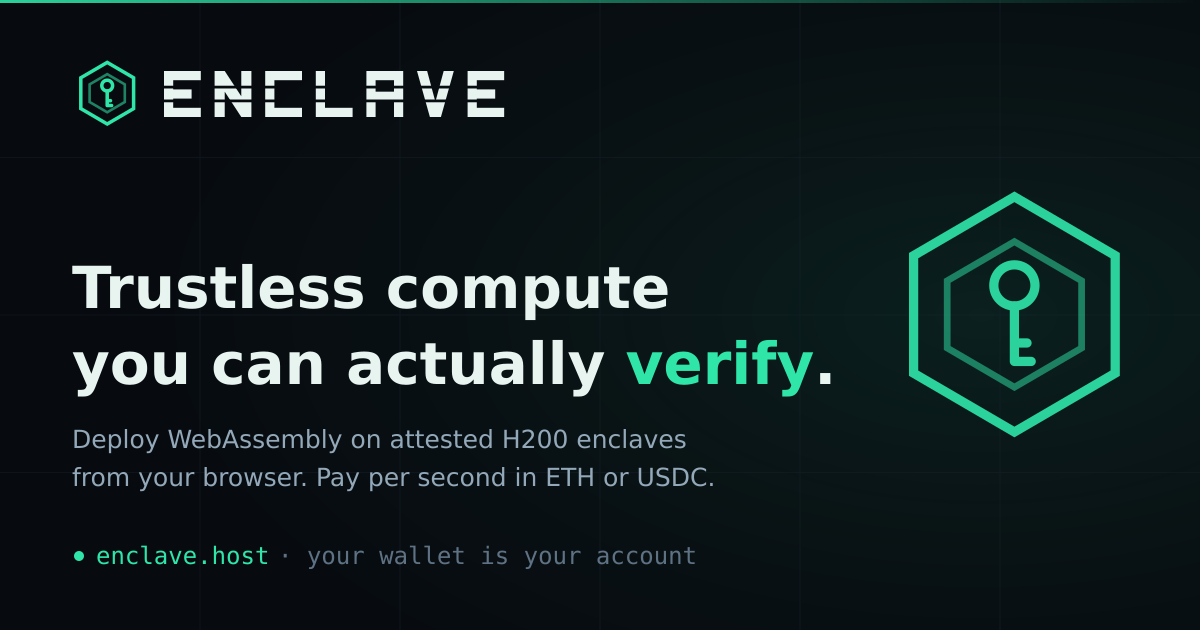
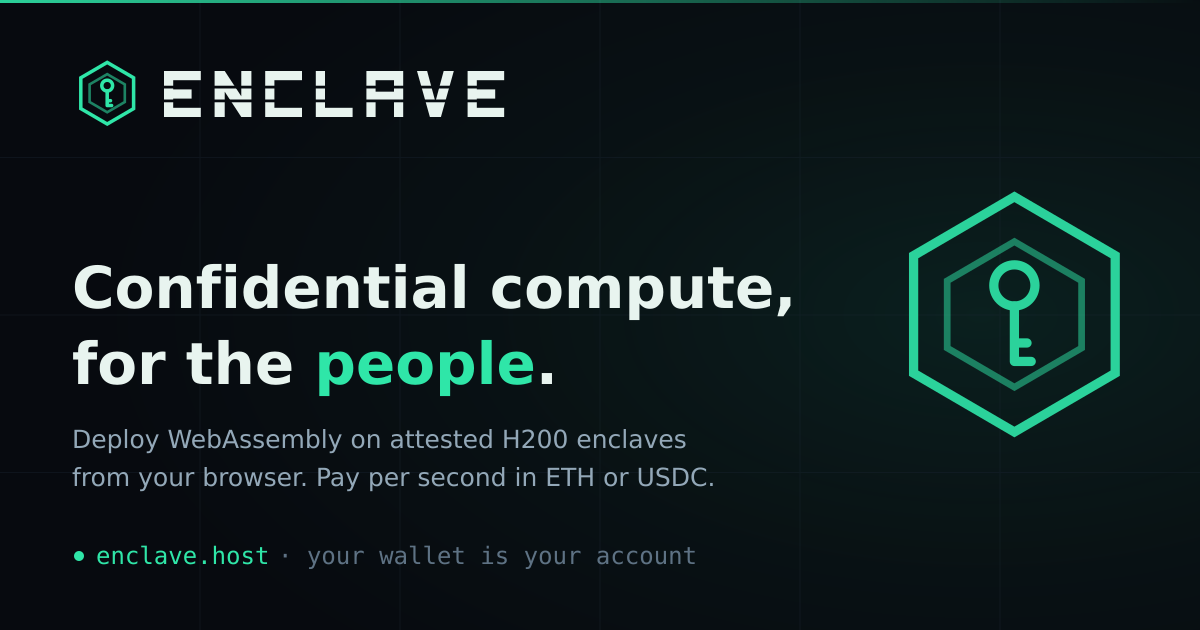
site: rebrand around "Confidential compute, for the people"
Make the tagline the brand line everywhere it shows: index hero h1
(verify hook moves to the eyebrow + lede), page title, meta/OG copy,
JSON-LD Organization slogan + WebSite description, footer brand line
(site-wide), a new ticker fact, the regenerated og.png social card,
and the README lede. No em dashes, per the site copy rule.

Changed region(s): [[0.0617, 0.5429, 0.7092, 0.6333], [0.0617, 0.4222, 0.6783, 0.5127]]

diff --git a/site/index.html b/site/index.html
@@ -5,20 +5,20 @@
 <meta name="viewport" content="width=device-width, initial-scale=1.0" />
 <meta name="color-scheme" content="dark" />
 <meta name="theme-color" content="#070A0F" />
-<title>Enclave · Trustless Confidential GPU Compute (H200)</title>
-<meta name="description" content="Trustless on-demand confidential GPU compute. Deploy a WebAssembly app onto a confidential enclave equipped with an H200 GPU, straight from your browser: pay in ETH or USDC, and verify the enclave yourself. CORS-friendly API. Built and operated by Enclave Host, Inc." />
+<title>Enclave · Confidential GPU Compute for the People (H200)</title>
+<meta name="description" content="Confidential compute, for the people. Deploy a WebAssembly app onto a trustless, attested enclave equipped with an H200 GPU, straight from your browser: pay in ETH or USDC, and verify the enclave yourself. No sales calls, no gatekeepers. Built and operated by Enclave Host, Inc." />
 <link rel="canonical" href="https://enclave.host/" />
 <meta name="robots" content="index,follow,max-image-preview:large" />
 <meta property="og:site_name" content="Enclave" />
 <meta property="og:locale" content="en_US" />
 <meta property="og:type" content="website" />
 <meta property="og:url" content="https://enclave.host/" />
-<meta property="og:title" content="Enclave · Trustless Confidential GPU Compute" />
-<meta property="og:description" content="Deploy a WebAssembly app onto an attested confidential enclave with an H200 GPU, straight from your browser. Pay per second in ETH or USDC. Verify the enclave yourself before sending a byte." />
+<meta property="og:title" content="Enclave · Confidential Compute, for the People" />
+<meta property="og:description" content="Attested H200 enclaves for everyone, not just the Fortune 500. Deploy a WebAssembly app straight from your browser, pay per second in ETH or USDC, and verify the enclave yourself before sending a byte." />
 <meta property="og:image" content="https://enclave.host/assets/og.png" />
 <meta property="og:image:width" content="1200" />
 <meta property="og:image:height" content="630" />
-<meta property="og:image:alt" content="Enclave: trustless confidential GPU compute on attested H200 enclaves" />
+<meta property="og:image:alt" content="Enclave: confidential compute for the people, on attested H200 enclaves" />
 <meta name="twitter:card" content="summary_large_image" />
 <meta name="twitter:image" content="https://enclave.host/assets/og.png" />
 <link rel="icon" href="favicon.ico" sizes="48x48 32x32 16x16" />
@@ -62,6 +62,7 @@
       "@id": "https://enclave.host/#org",
       "name": "Enclave Host, Inc.",
       "alternateName": "Enclave",
+      "slogan": "Confidential compute, for the people.",
       "url": "https://enclave.host/",
       "logo": { "@type": "ImageObject", "url": "https://enclave.host/assets/logo-1024.png", "width": 1024, "height": 1024 },
       "email": "[email redacted]",
@@ -79,7 +80,7 @@
       "@id": "https://enclave.host/#website",
       "url": "https://enclave.host/",
       "name": "Enclave",
-      "description": "Trustless on-demand confidential GPU compute: deploy WebAssembly apps onto attested enclaves with H200 GPUs, paid per second in ETH or USDC.",
+      "description": "Confidential compute, for the people: deploy WebAssembly apps onto trustless, attested enclaves with H200 GPUs, paid per second in ETH or USDC.",
       "publisher": { "@id": "https://enclave.host/#org" }
     },
     {
@@ -116,9 +117,9 @@
 <section class="hero" data-view="overview" aria-label="Intro">
   <div class="wrap hero-grid">
     <div class="hero-copy">
-      <span class="eyebrow">Confidential compute · API v1</span>
-      <h1>Trustless compute<br>you can&nbsp;actually <span class="hl">verify</span>.</h1>
-      <p class="lede">Deploy a <b>WebAssembly app</b> onto a confidential enclave equipped with an <b>H200 GPU</b> straight from your browser. Pay per second in <b>ETH or USDC</b>. Your wallet is your account. Then check the cryptographic attestation <b>yourself</b> before you send a single byte of data.</p>
+      <span class="eyebrow">Trustless, attested enclaves · API v1</span>
+      <h1>Confidential compute,<br>for the&nbsp;<span class="hl">people</span>.</h1>
+      <p class="lede">The hardware that used to hide behind enterprise sales calls is now one click away: deploy a <b>WebAssembly app</b> onto a confidential enclave equipped with an <b>H200 GPU</b>, straight from your browser. Pay per second in <b>ETH or USDC</b>. Your wallet is your account. Then check the cryptographic attestation <b>yourself</b> before you send a single byte of data.</p>
       <div class="hero-cta">
         <a href="apps" class="btn btn-primary">Deploy an app <span class="arr">→</span></a>
         <a href="develop#api" class="btn btn-ghost">Read the API</a>

diff --git a/site/apps.html b/site/apps.html
@@ -18,7 +18,7 @@
 <meta property="og:image" content="https://enclave.host/assets/og.png" />
 <meta property="og:image:width" content="1200" />
 <meta property="og:image:height" content="630" />
-<meta property="og:image:alt" content="Enclave: trustless confidential GPU compute on attested H200 enclaves" />
+<meta property="og:image:alt" content="Enclave: confidential compute for the people, on attested H200 enclaves" />
 <meta name="twitter:card" content="summary_large_image" />
 <meta name="twitter:image" content="https://enclave.host/assets/og.png" />
 <link rel="icon" href="favicon.ico" sizes="48x48 32x32 16x16" />

diff --git a/site/components/footer/footer.html b/site/components/footer/footer.html
@@ -11,7 +11,7 @@
           </svg>
           <svg class="nm" viewBox="0 0 148 20" fill="currentColor" aria-hidden="true"><mask id="wmkF"><rect width="148" height="20" fill="#fff"/><rect y="6.4" width="148" height="1.2" fill="#000"/><rect y="12.4" width="148" height="1.2" fill="#000"/></mask><path mask="url(#wmkF)" d="M0 0h16v4h-16zM0 8h12v4h-12zM0 16h16v4h-16zM0 0h4v20h-4zM22 20V0h4.4l7.2 11V0h4.4v20h-4.4l-7.2-11v11zM44 0h16v4h-16zM44 16h16v4h-16zM44 0h4v20h-4zM66 0h4v20h-4zM66 16h16v4h-16zM88 0h16v4h-16zM88 0h4v20h-4zM100 0h4v20h-4zM92 9h8v4h-8zM110 0h4.4l3.6 13.4 3.6-13.4H126l-5.6 20h-4.8zM132 0h16v4h-16zM132 8h12v4h-12zM132 16h16v4h-16zM132 0h4v20h-4z"/></svg>
         </a>
-        <p>Trustless on-demand confidential compute, paid for exclusively in crypto.</p>
+        <p>Bringing confidential compute to the people: trustless, on-demand, paid in crypto.</p>
         <div class="foot-meta">
           <span>built + operated by Enclave Host, Inc.</span>
           <span>front-end: static, pinned to IPFS · <code>enclave.host</code></span>

diff --git a/site/components/ticker/ticker.html b/site/components/ticker/ticker.html
@@ -1,3 +1,3 @@
 <div class="ticker" aria-hidden="true">
-  <div class="ticker-track"><span class="it"><b>AMD SEV-SNP</b> + NVIDIA confidential computing</span><span class="it"><b>Per-second</b> metering, settled on-chain</span><span class="it"><b>TLS</b> terminates inside the enclave</span><span class="it"><b>H200</b> · whole-GPU confidential computing</span><span class="it"><b>Wasm apps</b> · wasi:http, sandboxed in the enclave</span><span class="it"><b>Wallet-native</b> · your wallet is your account</span><span class="it"><b>CORS-enabled</b> · drive it from the browser</span><span class="it"><b>Per-tenant</b> Wasm sandbox + process isolation · VRAM zeroed before reuse</span><span class="it"><b>Verify the report</b> before you connect</span><span class="it"><b>No custody</b> · payments forward straight through · top up to extend</span></div>
+  <div class="ticker-track"><span class="it"><b>For the people</b> · no sales calls, no gatekeepers, just your wallet</span><span class="it"><b>AMD SEV-SNP</b> + NVIDIA confidential computing</span><span class="it"><b>Per-second</b> metering, settled on-chain</span><span class="it"><b>TLS</b> terminates inside the enclave</span><span class="it"><b>H200</b> · whole-GPU confidential computing</span><span class="it"><b>Wasm apps</b> · wasi:http, sandboxed in the enclave</span><span class="it"><b>Wallet-native</b> · your wallet is your account</span><span class="it"><b>CORS-enabled</b> · drive it from the browser</span><span class="it"><b>Per-tenant</b> Wasm sandbox + process isolation · VRAM zeroed before reuse</span><span class="it"><b>Verify the report</b> before you connect</span><span class="it"><b>No custody</b> · payments forward straight through · top up to extend</span></div>
 </div>

diff --git a/site/develop.html b/site/develop.html
@@ -18,7 +18,7 @@
 <meta property="og:image" content="https://enclave.host/assets/og.png" />
 <meta property="og:image:width" content="1200" />
 <meta property="og:image:height" content="630" />
-<meta property="og:image:alt" content="Enclave: trustless confidential GPU compute on attested H200 enclaves" />
+<meta property="og:image:alt" content="Enclave: confidential compute for the people, on attested H200 enclaves" />
 <meta name="twitter:card" content="summary_large_image" />
 <meta name="twitter:image" content="https://enclave.host/assets/og.png" />
 <link rel="icon" href="favicon.ico" sizes="48x48 32x32 16x16" />

diff --git a/site/privacy.html b/site/privacy.html
@@ -18,7 +18,7 @@
 <meta property="og:image" content="https://enclave.host/assets/og.png" />
 <meta property="og:image:width" content="1200" />
 <meta property="og:image:height" content="630" />
-<meta property="og:image:alt" content="Enclave: trustless confidential GPU compute on attested H200 enclaves" />
+<meta property="og:image:alt" content="Enclave: confidential compute for the people, on attested H200 enclaves" />
 <meta name="twitter:card" content="summary_large_image" />
 <meta name="twitter:image" content="https://enclave.host/assets/og.png" />
 <script type="application/ld+json" data-breadcrumb>

diff --git a/site/terms.html b/site/terms.html
@@ -18,7 +18,7 @@
 <meta property="og:image" content="https://enclave.host/assets/og.png" />
 <meta property="og:image:width" content="1200" />
 <meta property="og:image:height" content="630" />
-<meta property="og:image:alt" content="Enclave: trustless confidential GPU compute on attested H200 enclaves" />
+<meta property="og:image:alt" content="Enclave: confidential compute for the people, on attested H200 enclaves" />
 <meta name="twitter:card" content="summary_large_image" />
 <meta name="twitter:image" content="https://enclave.host/assets/og.png" />
 <script type="application/ld+json" data-breadcrumb>

diff --git a/README.md b/README.md
@@ -1,6 +1,6 @@
 # Enclave
 
-**Trustless compute you can actually verify.** Enclave is a confidential-compute platform: publish a WebAssembly app to an on-chain catalog, fund a deployment straight from your wallet, and it runs inside a hardware-attested enclave (AMD SEV-SNP CPUs + NVIDIA confidential computing on H200 nodes today; Intel TDX quotes verify through the same pipeline) that neither the operator nor the host can see into. TLS terminates inside the enclave, billing is per-second on Base, and the whole chain of trust, from the CPU's attestation quote down to the exact commit of this repo that built the running image, can be verified from a browser before you send the service a byte.
+**Confidential compute, for the people.** Enclave is a trustless compute platform you can actually verify: publish a WebAssembly app to an on-chain catalog, fund a deployment straight from your wallet, and it runs inside a hardware-attested enclave (AMD SEV-SNP CPUs + NVIDIA confidential computing on H200 nodes today; Intel TDX quotes verify through the same pipeline) that neither the operator nor the host can see into. TLS terminates inside the enclave, billing is per-second on Base, and the whole chain of trust, from the CPU's attestation quote down to the exact commit of this repo that built the running image, can be verified from a browser before you send the service a byte.
 
 - **Site / deploy console / app store:** https://enclave.host
 - **Developer guide + API reference:** https://enclave.host/develop (OpenAPI spec: [site/openapi.json](site/openapi.json))